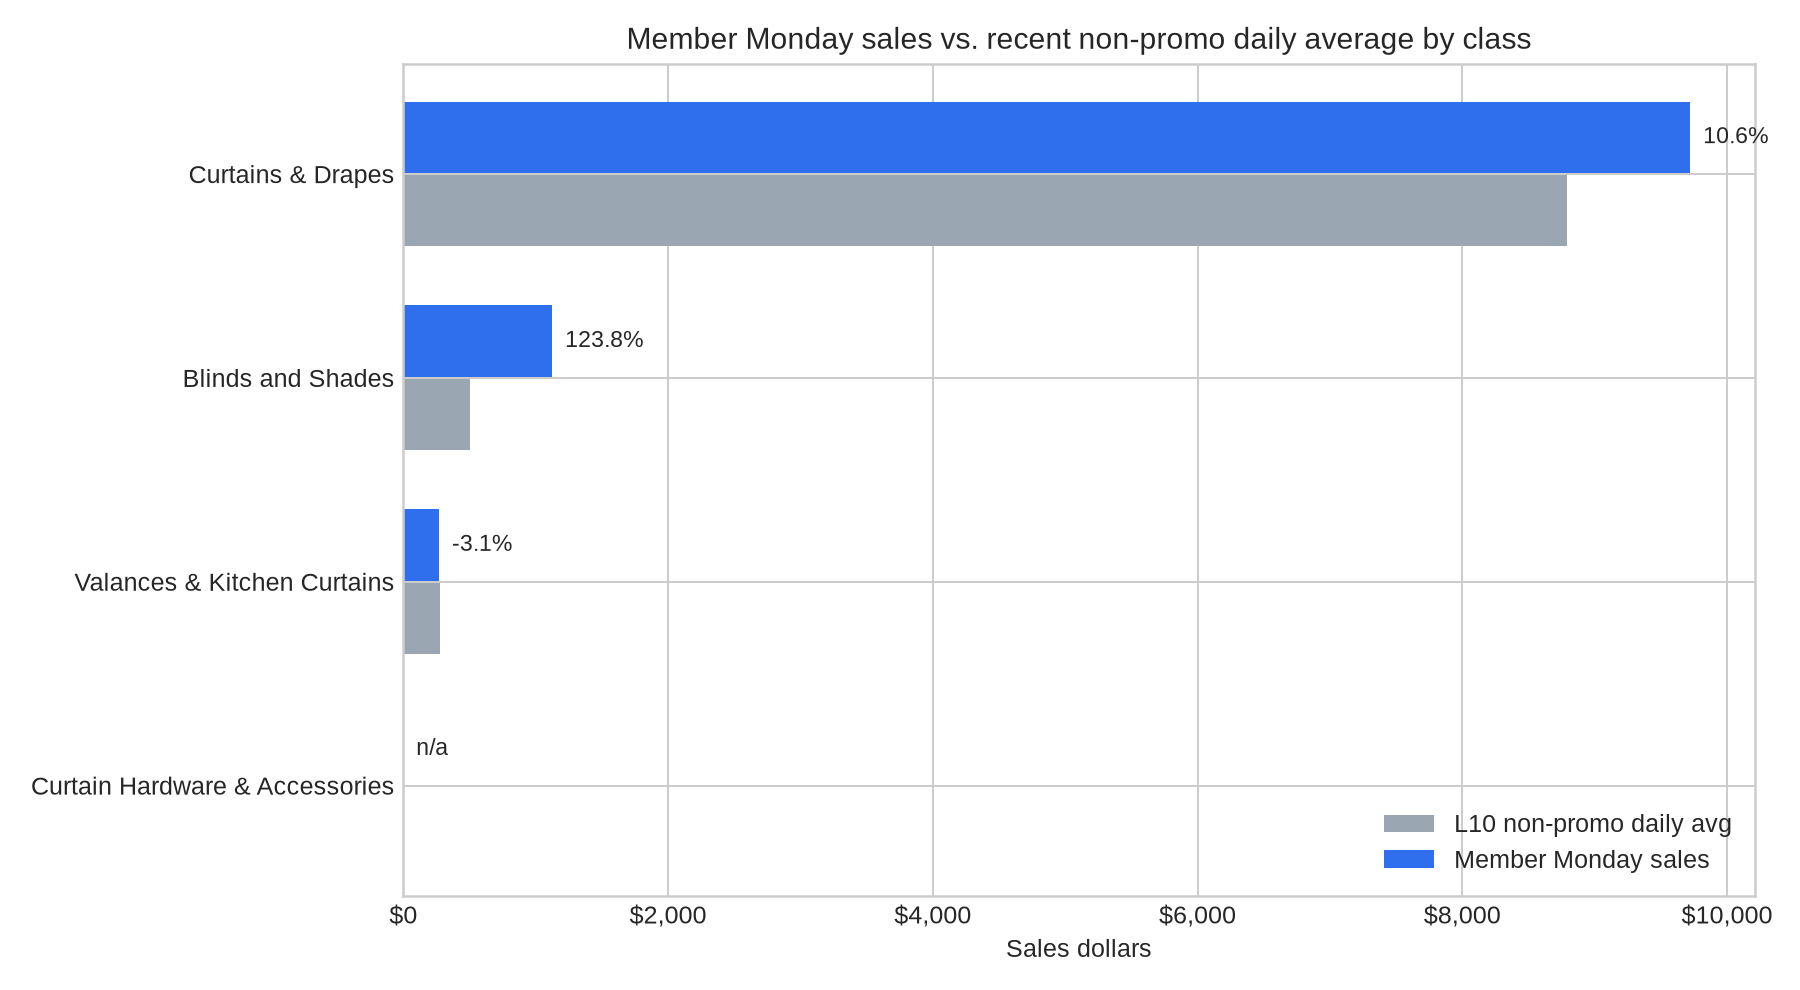
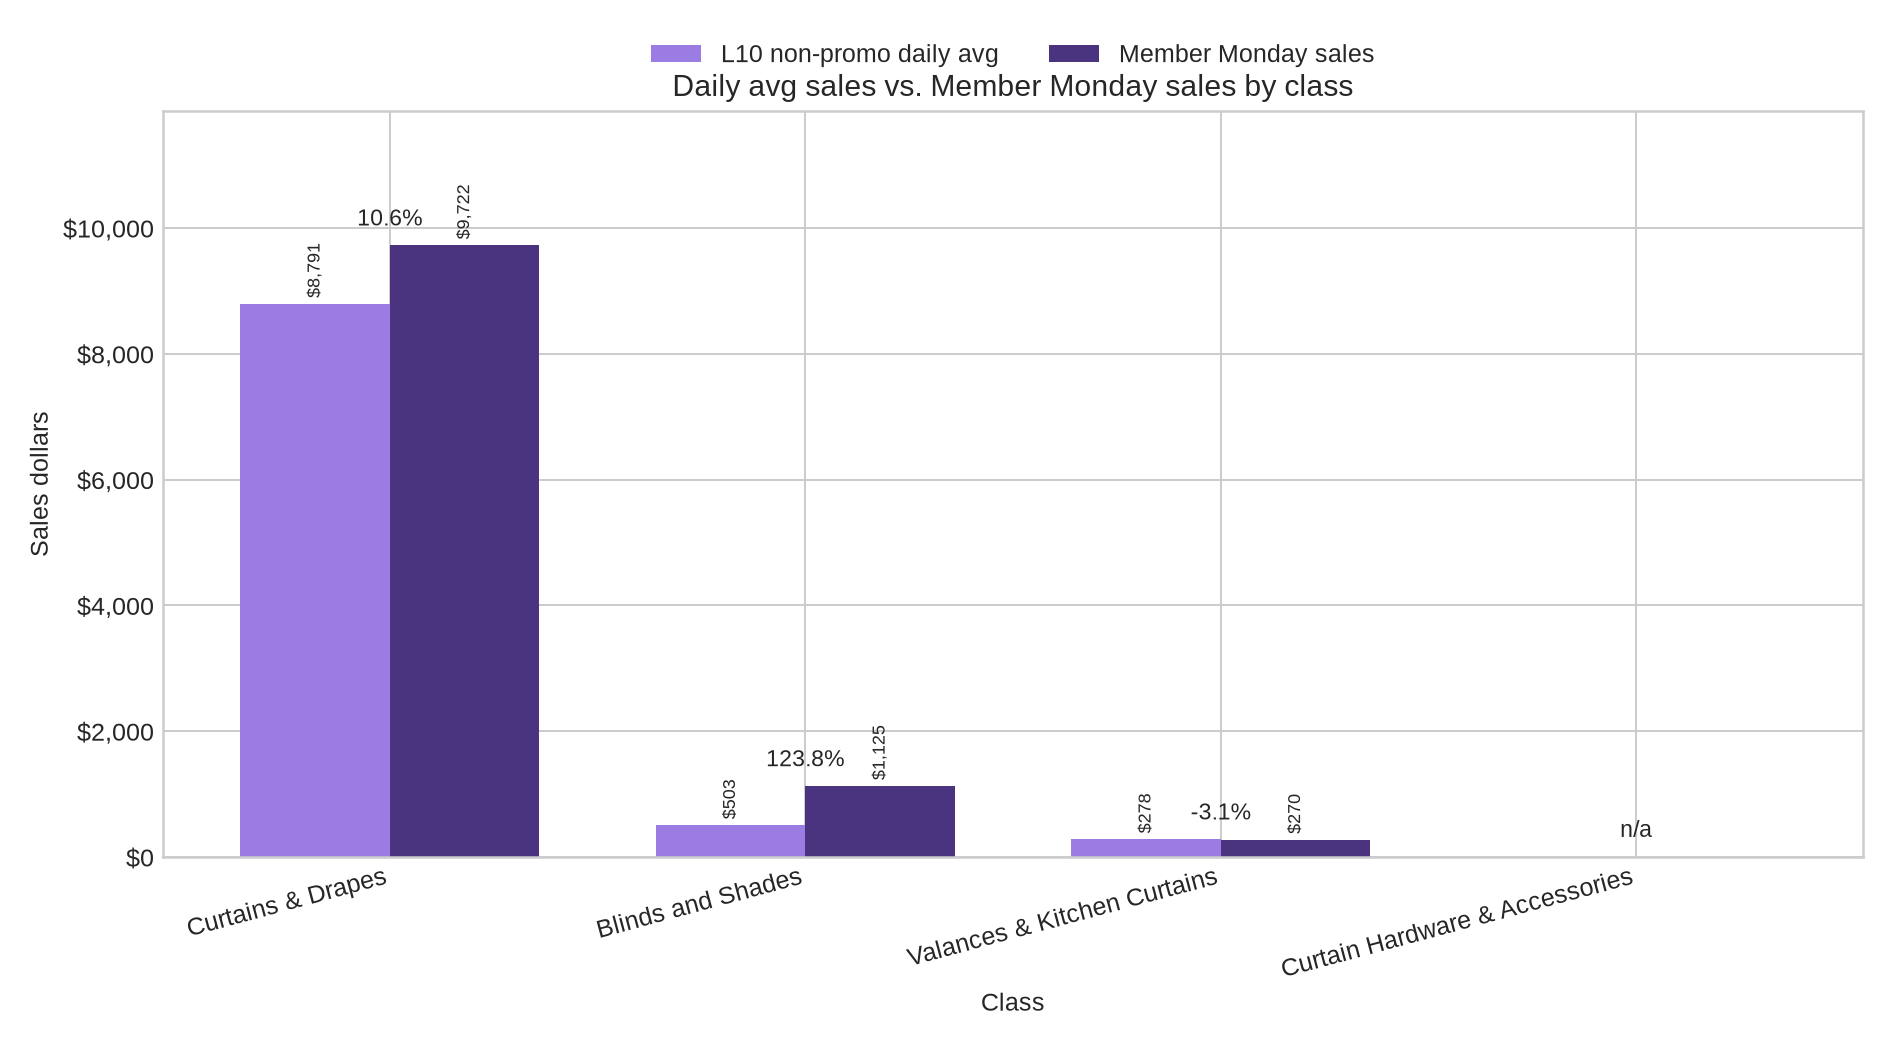
Use class sales bars for lift chart

diff --git a/analysis/member_monday/build_case_study.py b/analysis/member_monday/build_case_study.py
@@ -65,10 +65,6 @@ KNOWN_CLASSES = {
 }
 
 DISCOUNT_BUCKET_LABELS = ["<10%", "10-14.9%", "15-19.9%", "20-24.9%", "25%+"]
-B2B_SEGMENT_LABELS = [
-    "With No B2B Discount",
-    "With 5%+ Incremental B2B Discount",
-]
 
 
 def parse_currency(value: object) -> float:
@@ -277,73 +273,56 @@ def build_discount_buckets(df: pd.DataFrame) -> pd.DataFrame:
     return summary.sort_values("discount_bucket")
 
 
-def add_b2b_bucket_segments(df: pd.DataFrame) -> pd.DataFrame:
-    bucketed = df.copy()
-    bucketed["discount_bucket"] = pd.cut(
-        bucketed["discount_pct"],
-        bins=[-math.inf, 0.0999, 0.1499, 0.1999, 0.2499, math.inf],
-        labels=DISCOUNT_BUCKET_LABELS,
-    )
-    incremental_b2b_pct = (
-        bucketed["b2b_discount_pct"].fillna(bucketed["discount_pct"])
-        - bucketed["discount_pct"]
-    ).clip(lower=0)
-    bucketed["incremental_b2b_discount_pct"] = incremental_b2b_pct
-    bucketed["b2b_support_segment"] = incremental_b2b_pct.map(
-        lambda value: B2B_SEGMENT_LABELS[1] if value >= 0.05 else B2B_SEGMENT_LABELS[0]
-    )
-    return bucketed
-
-
-def build_b2b_discount_buckets(df: pd.DataFrame) -> pd.DataFrame:
-    summary = summarize(
-        add_b2b_bucket_segments(df), ["discount_bucket", "b2b_support_segment"]
-    )
-    summary["discount_bucket"] = pd.Categorical(
-        summary["discount_bucket"].astype(str),
-        categories=DISCOUNT_BUCKET_LABELS,
-        ordered=True,
-    )
-    summary["b2b_support_segment"] = pd.Categorical(
-        summary["b2b_support_segment"].astype(str),
-        categories=B2B_SEGMENT_LABELS,
-        ordered=True,
-    )
-    return summary.sort_values(["discount_bucket", "b2b_support_segment"])
-
-
 def save_chart_class_sales(class_summary: pd.DataFrame, out: Path) -> None:
-    plot_df = class_summary.sort_values("member_monday_sales")
-    y = range(len(plot_df))
-    fig, ax = plt.subplots(figsize=(10, 5.5))
-    ax.barh(
-        [idx - 0.18 for idx in y],
+    plot_df = class_summary.sort_values("member_monday_sales", ascending=False)
+    x_positions = list(range(len(plot_df)))
+    width = 0.36
+    fig, ax = plt.subplots(figsize=(10.5, 5.8))
+    baseline_bars = ax.bar(
+        [idx - width / 2 for idx in x_positions],
         plot_df["l10_non_promo_daily_avg"],
-        height=0.35,
+        width=width,
         label="L10 non-promo daily avg",
-        color="#9aa6b2",
+        color="#9b7ce3",
     )
-    ax.barh(
-        [idx + 0.18 for idx in y],
+    member_monday_bars = ax.bar(
+        [idx + width / 2 for idx in x_positions],
         plot_df["member_monday_sales"],
-        height=0.35,
+        width=width,
         label="Member Monday sales",
-        color="#2f6fed",
+        color="#4b347f",
     )
-    ax.set_yticks(list(y), plot_df["class_name"])
-    ax.set_xlabel("Sales dollars")
-    ax.set_title("Member Monday sales vs. recent non-promo daily average by class")
-    ax.xaxis.set_major_formatter(lambda x, _pos: f"${x:,.0f}")
-    ax.legend(loc="lower right")
+    ax.set_xticks(x_positions, plot_df["class_name"], rotation=15, ha="right")
+    ax.set_xlabel("Class")
+    ax.set_ylabel("Sales dollars")
+    ax.set_title("Daily avg sales vs. Member Monday sales by class")
+    ax.yaxis.set_major_formatter(lambda y, _pos: f"${y:,.0f}")
+    ax.legend(loc="upper center", bbox_to_anchor=(0.5, 1.12), ncol=2, frameon=False)
     for idx, row in enumerate(plot_df.itertuples()):
-        lift_label = fmt_pct(row.weighted_lift_pct)
+        y_value = max(row.member_monday_sales, row.l10_non_promo_daily_avg)
         ax.text(
-            row.member_monday_sales + max(plot_df["member_monday_sales"]) * 0.01,
-            idx + 0.18,
-            lift_label,
-            va="center",
+            idx,
+            y_value + max(plot_df["member_monday_sales"]) * 0.025,
+            fmt_pct(row.weighted_lift_pct),
+            ha="center",
+            va="bottom",
             fontsize=9,
         )
+    for bars in [baseline_bars, member_monday_bars]:
+        for bar in bars:
+            height = bar.get_height()
+            if height <= 0:
+                continue
+            ax.text(
+                bar.get_x() + bar.get_width() / 2,
+                height + max(plot_df["member_monday_sales"]) * 0.01,
+                fmt_currency(height),
+                ha="center",
+                va="bottom",
+                fontsize=7,
+                rotation=90,
+            )
+    ax.set_ylim(0, max(plot_df["member_monday_sales"].max(), plot_df["l10_non_promo_daily_avg"].max()) * 1.22)
     fig.tight_layout()
     fig.savefig(out, dpi=180)
     plt.close(fig)
@@ -434,81 +413,26 @@ def save_chart_supplier_scatter(supplier_summary: pd.DataFrame, out: Path) -> No
 
 def save_chart_discount_buckets(bucket_summary: pd.DataFrame, out: Path) -> None:
     plot_df = bucket_summary.copy()
-    plot_df["discount_bucket"] = pd.Categorical(
+    fig, ax = plt.subplots(figsize=(9, 5))
+    bars = ax.bar(
         plot_df["discount_bucket"].astype(str),
-        categories=DISCOUNT_BUCKET_LABELS,
-        ordered=True,
-    )
-    plot_df["b2b_support_segment"] = pd.Categorical(
-        plot_df["b2b_support_segment"].astype(str),
-        categories=B2B_SEGMENT_LABELS,
-        ordered=True,
-    )
-    pivot = plot_df.pivot(
-        index="discount_bucket",
-        columns="b2b_support_segment",
-        values="weighted_lift_pct",
-    ).reindex(DISCOUNT_BUCKET_LABELS)
-    display = (pivot * 100).clip(lower=-110, upper=300)
-
-    x_positions = list(range(len(display)))
-    width = 0.36
-    fig, ax = plt.subplots(figsize=(10, 5.8))
-    no_b2b_bars = ax.bar(
-        [x - width / 2 for x in x_positions],
-        display[B2B_SEGMENT_LABELS[0]].fillna(0),
-        width=width,
-        label=B2B_SEGMENT_LABELS[0],
-        color="#9b7ce3",
-    )
-    b2b_bars = ax.bar(
-        [x + width / 2 for x in x_positions],
-        display[B2B_SEGMENT_LABELS[1]].fillna(0),
-        width=width,
-        label=B2B_SEGMENT_LABELS[1],
+        plot_df["weighted_lift_pct"] * 100,
         color="#4b347f",
     )
     ax.axhline(0, color="#59636e", linewidth=1)
-    ax.set_xticks(x_positions, [f"{label} B2C Disc." for label in DISCOUNT_BUCKET_LABELS])
-    ax.set_xlabel("Discount Applied on B2C")
+    ax.set_xlabel("Discount investment bucket")
     ax.set_ylabel("Weighted sales lift")
-    ax.set_title("Lift by B2C discount bucket and B2B discount support")
+    ax.set_title("Lift by level of promotional investment")
     ax.yaxis.set_major_formatter(lambda y, _pos: f"{y:.0f}%")
-    ax.set_ylim(-120, 325)
-    ax.legend(loc="upper center", bbox_to_anchor=(0.5, 1.12), ncol=2, frameon=False)
-
-    for bars, segment in [
-        (no_b2b_bars, B2B_SEGMENT_LABELS[0]),
-        (b2b_bars, B2B_SEGMENT_LABELS[1]),
-    ]:
-        for idx, bar in enumerate(bars):
-            actual = pivot.loc[DISCOUNT_BUCKET_LABELS[idx], segment]
-            if pd.isna(actual):
-                continue
-            actual_pct = actual * 100
-            label = f"{actual_pct:.0f}%"
-            if actual_pct > 300:
-                label += " lift"
-            if actual_pct < -110:
-                label += " lift"
-            height = bar.get_height()
-            ax.text(
-                bar.get_x() + bar.get_width() / 2,
-                height + (8 if height >= 0 else -8),
-                label,
-                ha="center",
-                va="bottom" if height >= 0 else "top",
-                fontsize=8,
-            )
-    ax.text(
-        len(display) - 0.15,
-        -112,
-        "Bars capped at -110% and 300% so low-baseline outliers remain readable",
-        ha="right",
-        va="bottom",
-        fontsize=8,
-        color="#59636e",
-    )
+    for bar, row in zip(bars, plot_df.itertuples(), strict=True):
+        ax.text(
+            bar.get_x() + bar.get_width() / 2,
+            bar.get_height(),
+            f"{row.weighted_lift_pct * 100:.0f}%",
+            ha="center",
+            va="bottom" if row.weighted_lift_pct >= 0 else "top",
+            fontsize=9,
+        )
     fig.tight_layout()
     fig.savefig(out, dpi=180)
     plt.close(fig)
@@ -702,7 +626,6 @@ def write_report(
     class_summary: pd.DataFrame,
     supplier_summary: pd.DataFrame,
     bucket_summary: pd.DataFrame,
-    b2b_bucket_summary: pd.DataFrame,
     source_totals: dict[str, float] | None = None,
 ) -> None:
     extracted_baseline = float(sku_df["l10_non_promo_daily_avg"].sum())
@@ -785,6 +708,8 @@ Member Monday generated **{fmt_currency_2(sales)}** in participating SKU sales v
 
 ![Class sales lift](charts/class_sales_lift.png)
 
+In the class chart, light purple bars show the recent non-promo daily average and dark purple bars show Member Monday sales.
+
 ## Class-level insights
 
 {markdown_table(class_table, [
@@ -820,8 +745,6 @@ Member Monday generated **{fmt_currency_2(sales)}** in participating SKU sales v
 ])}
 
 The investment story is not purely "deeper discount equals better lift." Mid- and higher-discount buckets both produced wins, but SKU relevance and baseline demand materially shaped outcomes. This is a useful supplier message: Member Monday works best when suppliers fund a compelling offer **and** nominate SKUs with enough demand signal to convert loyalty traffic.
-
-The chart above splits each B2C discount bucket into two groups: SKUs with no incremental B2B discount and SKUs where B2B was at least 5 percentage points deeper than the B2C discount. This makes it easier to show suppliers how extra B2B support performed inside each B2C discount level.
 
 ![Supplier lift vs investment](charts/supplier_lift_vs_investment.png)
 
@@ -872,7 +795,6 @@ The chart above splits each B2C discount bucket into two groups: SKUs with no in
 - `class_summary.csv`: class-level performance and investment metrics.
 - `supplier_summary.csv`: supplier-level performance and investment metrics.
 - `discount_bucket_summary.csv`: lift by supplier discount-investment bucket.
-- `b2b_discount_bucket_summary.csv`: lift by B2C discount bucket split by B2B discount support.
 - `member_monday_case_study.xlsx`: workbook with all summary tabs.
 - `charts/*.png`: visual assets for supplier-facing materials.
 """
@@ -894,15 +816,11 @@ def main() -> None:
     class_summary = summarize(sku_df, ["class_name"])
     supplier_summary = summarize(sku_df, ["supplier_id", "supplier_name", "srm"])
     bucket_summary = build_discount_buckets(sku_df)
-    b2b_bucket_summary = build_b2b_discount_buckets(sku_df)
 
     sku_df.to_csv(args.out / "member_monday_sku_data.csv", index=False)
     class_summary.to_csv(args.out / "class_summary.csv", index=False)
     supplier_summary.to_csv(args.out / "supplier_summary.csv", index=False)
     bucket_summary.to_csv(args.out / "discount_bucket_summary.csv", index=False)
-    b2b_bucket_summary.to_csv(
-        args.out / "b2b_discount_bucket_summary.csv", index=False
-    )
 
     with pd.ExcelWriter(args.out / "member_monday_case_study.xlsx") as writer:
         metric_definitions().to_excel(
@@ -912,18 +830,13 @@ def main() -> None:
         class_summary.to_excel(writer, sheet_name="Class Summary", index=False)
         supplier_summary.to_excel(writer, sheet_name="Supplier Summary", index=False)
         bucket_summary.to_excel(writer, sheet_name="Discount Buckets", index=False)
-        b2b_bucket_summary.to_excel(
-            writer, sheet_name="B2B Bucket Lift", index=False
-        )
 
     plt.style.use("seaborn-v0_8-whitegrid")
     save_chart_class_sales(class_summary, charts_dir / "class_sales_lift.png")
     save_chart_supplier_scatter(
         supplier_summary, charts_dir / "supplier_lift_vs_investment.png"
     )
-    save_chart_discount_buckets(
-        b2b_bucket_summary, charts_dir / "discount_bucket_lift.png"
-    )
+    save_chart_discount_buckets(bucket_summary, charts_dir / "discount_bucket_lift.png")
     save_chart_top_incremental(
         supplier_summary, charts_dir / "top_supplier_incremental_sales.png"
     )
@@ -933,7 +846,6 @@ def main() -> None:
         class_summary,
         supplier_summary,
         bucket_summary,
-        b2b_bucket_summary,
         source_totals,
     )
 

diff --git a/analysis/member_monday/output/Member_Monday_Loyalty_Lift_Case_Study.md b/analysis/member_monday/output/Member_Monday_Loyalty_Lift_Case_Study.md
@@ -26,6 +26,8 @@ Member Monday generated **$11,116.60** in participating SKU sales versus a recen
 
 ![Class sales lift](charts/class_sales_lift.png)
 
+In the class chart, light purple bars show the recent non-promo daily average and dark purple bars show Member Monday sales.
+
 ## Class-level insights
 
 | class_name                     | sku_count | active_skus | positive_lift_sku_rate | weighted_discount_pct | l10_non_promo_daily_avg | member_monday_sales | incremental_sales | weighted_lift_pct |
@@ -54,8 +56,6 @@ Member Monday generated **$11,116.60** in participating SKU sales versus a recen
 | 25%+            | 61        | 27.0%                 | $340.12                 | $447.02             | $106.90           | 31.4%             |
 
 The investment story is not purely "deeper discount equals better lift." Mid- and higher-discount buckets both produced wins, but SKU relevance and baseline demand materially shaped outcomes. This is a useful supplier message: Member Monday works best when suppliers fund a compelling offer **and** nominate SKUs with enough demand signal to convert loyalty traffic.
-
-The chart above splits each B2C discount bucket into two groups: SKUs with no incremental B2B discount and SKUs where B2B was at least 5 percentage points deeper than the B2C discount. This makes it easier to show suppliers how extra B2B support performed inside each B2C discount level.
 
 ![Supplier lift vs investment](charts/supplier_lift_vs_investment.png)
 
@@ -110,6 +110,5 @@ The chart above splits each B2C discount bucket into two groups: SKUs with no in
 - `class_summary.csv`: class-level performance and investment metrics.
 - `supplier_summary.csv`: supplier-level performance and investment metrics.
 - `discount_bucket_summary.csv`: lift by supplier discount-investment bucket.
-- `b2b_discount_bucket_summary.csv`: lift by B2C discount bucket split by B2B discount support.
 - `member_monday_case_study.xlsx`: workbook with all summary tabs.
 - `charts/*.png`: visual assets for supplier-facing materials.
